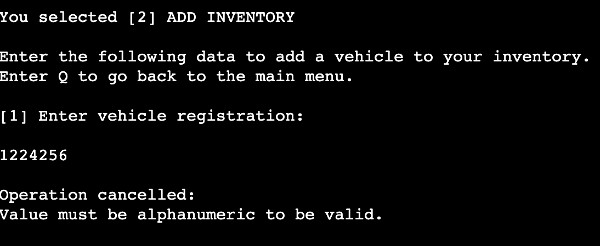
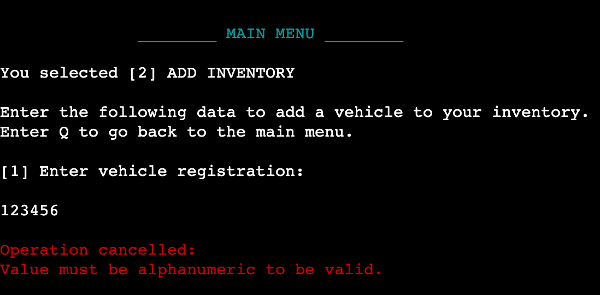
Update readme after implementing colorama

diff --git a/README.md b/README.md
@@ -2,7 +2,7 @@
 
 ## Data-Centric Frontend Development Milestone Project.
 
-![Responsiveness](./images/automated_autos.webp)
+![Application Home](./images/automated-autos.jpg)
 
 Welcome to Automated Auto Dealer! An inventory management tool for car dealerships to manage incoming inventory and
 and outgoing sales.
@@ -100,7 +100,7 @@ the user wishes to exit the program.
 It uses ASCII font to display an application title. As well as this, it is accompanied by a subheading that
 describes the purpose of the application as well as a cheeky accreditation for the creator ;)
 
-![Automated Auto Dealer Homepage](./images/automated-autos-home.webp)
+![Automated Auto Dealer Homepage](./images/automated-autos-home.jpg)
 
 ## Main menu
 
@@ -267,6 +267,10 @@ For this application, In utilised the following six imported libraries: -
   * Tabulate is a python library I used to display the present state of inventory/sales data to the user. It presents the
    data in a more easily understandable way than just printing a list of lists.
 
+### ***Colorama:***
+  * Colorama was used mainly so that failed input validation messages will be displayed in red for ease of understanding a problem has occured/ the operation is cancelled
+  * I also used it to give the application a cyan aesthetic.
+
 [Back to Table of contents](#table-of-contents)
 
 ___
@@ -311,7 +315,7 @@ to validate my code.
 
 The code validator returned that there were no errors to be found. See results below:
 
-[PEP8 Validation Results](./images/automated-autos-pep8.jpg)
+![PEP8 Validation Results](./images/automated-autos-pep8.jpg)
 
 [Back to Table of contents](#table-of-contents)
 
@@ -364,6 +368,9 @@ My use of python libraries is credited from the following:
 
 ***Tabulate***
 * Official Tabulate documentation found [here](https://pypi.org/project/tabulate/).
+
+***Colorama***
+* GeekForGeeks article on how to use colorama in python found [here](https://www.geeksforgeeks.org/print-colors-python-terminal/).
 
 ***Simple_term_menu***
 * Official simple_term_menu documentation found [here](https://pypi.org/project/simple-term-menu/).
